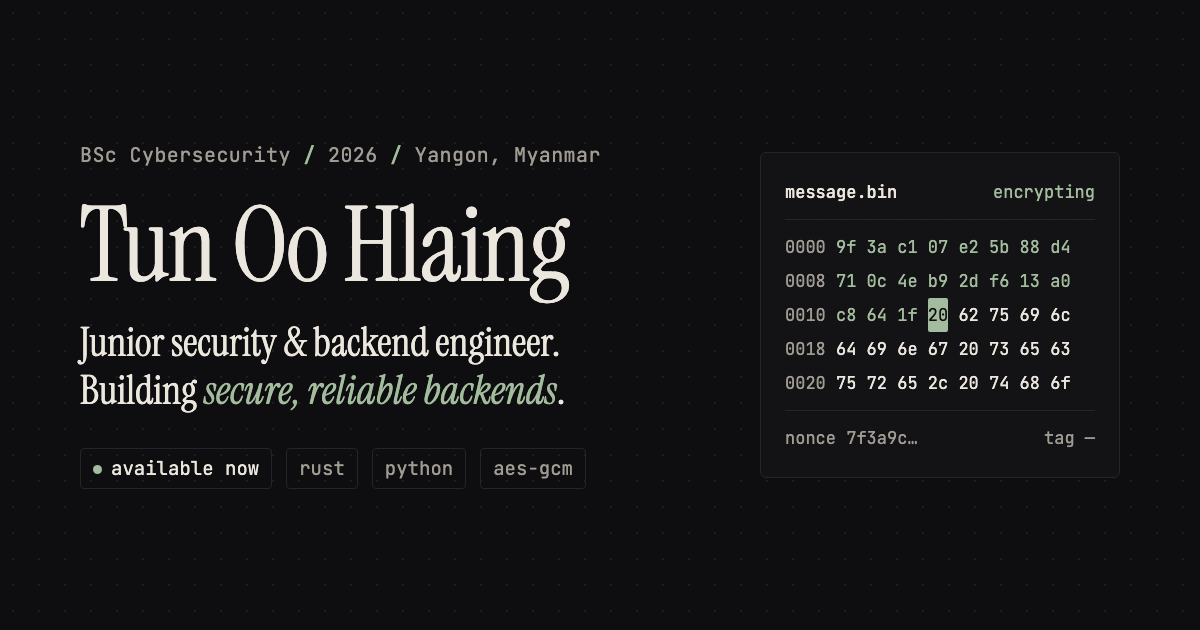
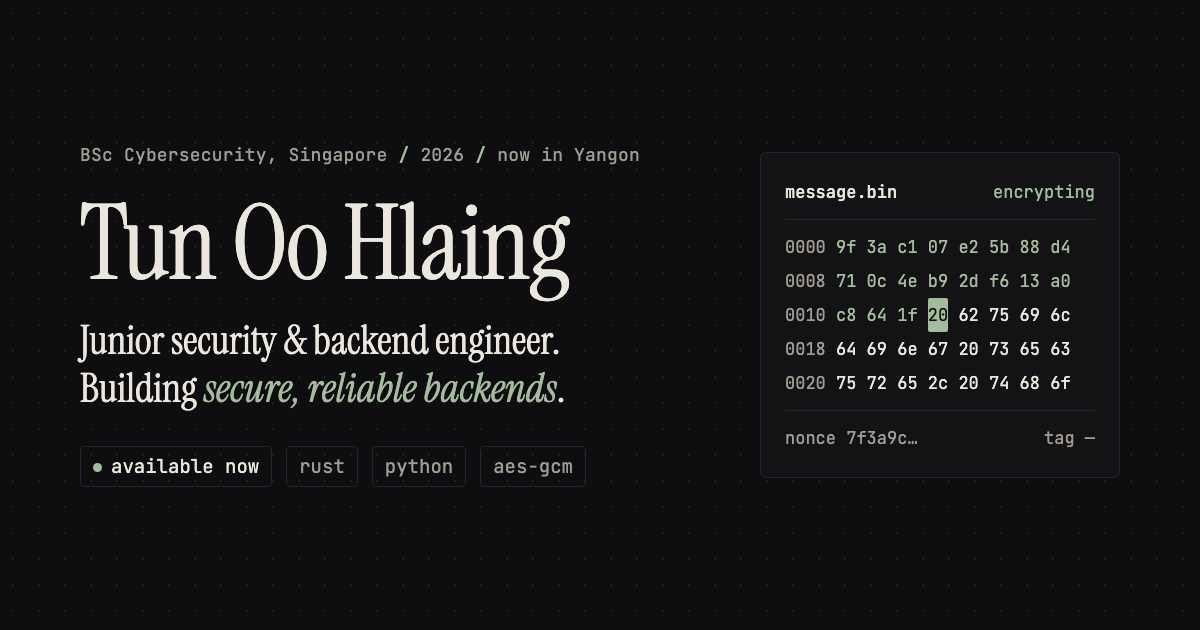
Shorten top line

diff --git a/index.html b/index.html
@@ -142,8 +142,9 @@ a:hover .arrow.ne { transform: translate(2px, -2px); }
 .hero { display: grid; gap: 48px; padding-block: clamp(40px, 9vw, 110px) clamp(64px, 10vw, 120px); align-items: center; }
 @media (min-width: 900px) { .hero { grid-template-columns: minmax(0, 1.25fr) minmax(0, 0.9fr); gap: 64px; } }
 .eyebrow { font-family: var(--f-mono); font-size: var(--t-xs); color: var(--muted); letter-spacing: 0.04em; display: flex; flex-wrap: wrap; gap: 6px 14px; }
-.eyebrow span + span::before { content: "/"; color: var(--faint); margin-right: 14px; }
-@media (max-width: 480px) { .eyebrow { gap: 4px 16px; } .eyebrow span + span::before { content: none; } }
+/* separator trails each item, so a wrapped line always starts with words, never a "/" */
+.eyebrow span:not(:last-child)::after { content: "/"; color: var(--faint); margin-left: 14px; }
+@media (max-width: 480px) { .eyebrow { gap: 4px 16px; } .eyebrow span:not(:last-child)::after { content: none; } }
 .hero h1 { font-size: var(--t-hero); letter-spacing: -0.015em; margin-top: 22px; }
 .position { font-family: var(--f-display); font-size: var(--t-lg); line-height: 1.25; margin-top: 18px; max-width: 24ch; color: var(--fg); }
 .position em { color: var(--accent); }
@@ -621,7 +622,7 @@ footer .wrap { display: flex; flex-wrap: wrap; justify-content: space-between; g
   <!-- Hero -->
   <section class="wrap hero" aria-labelledby="hero-name">
     <div>
-      <p class="eyebrow intro" style="--d: 0ms"><span>BSc Cybersecurity</span><span>Class of 2026</span><span>Yangon, Myanmar</span></p>
+      <p class="eyebrow intro" style="--d: 0ms"><span>BSc Cybersecurity, Singapore</span><span>Class of 2026</span></p>
       <h1 id="hero-name"><span class="w"><span style="--i: 0">Tun</span></span> <span class="w"><span style="--i: 1">Oo</span></span> <span class="w"><span style="--i: 2">Hlaing</span></span></h1>
       <p class="position intro" style="--d: 560ms">Cybersecurity graduate building <em>secure, reliable backends</em>.</p>
       <p class="seeking intro" style="--d: 680ms">Encrypted storage in Rust, APIs in Python, real-time systems. Open to junior security, software and backend roles in Myanmar or Singapore.</p>
@@ -645,8 +646,8 @@ footer .wrap { display: flex; flex-wrap: wrap; justify-content: space-between; g
   <section class="wrap glance" aria-label="At a glance">
     <dl>
       <div><dt>roles</dt><dd>Junior security, software or backend</dd></div>
-      <div><dt>degree</dt><dd>BSc Cybersecurity, UOW, 2026</dd></div>
-      <div><dt>based in</dt><dd>Yangon, Myanmar</dd></div>
+      <div><dt>degree</dt><dd>BSc Cybersecurity, UOW Singapore, 2026</dd></div>
+      <div><dt>now based in</dt><dd>Yangon, Myanmar</dd></div>
       <div><dt>open to</dt><dd>Myanmar or Singapore</dd></div>
       <div><dt>available</dt><dd>Now, immediate start</dd></div>
       <div><dt>languages</dt><dd>English, Burmese</dd></div>
@@ -658,14 +659,14 @@ footer .wrap { display: flex; flex-wrap: wrap; justify-content: space-between; g
     <div class="wrap sec-grid">
       <div class="margin">
         <p class="label"><span class="sym sym-fingerprint" aria-hidden="true"><svg viewBox="0 0 24 24"><path pathLength="1" d="M4.6 15.5c.3-1.1.4-2.3.4-3.5a7 7 0 0 1 14 0c0 1.9-.2 3.7-.6 5.4"/><path pathLength="1" d="M7.3 18.6c.8-1.9 1.2-4.2 1.2-6.6a3.5 3.5 0 0 1 7 0c0 1.4-.1 2.8-.4 4.1"/><path pathLength="1" d="M12 12c0 3.1-.6 5.9-1.8 8.2"/><path pathLength="1" d="M14.4 18.8c-.3.9-.7 1.7-1.1 2.4"/><line class="scan" x1="3" y1="5" x2="21" y2="5"/></svg></span>about</p>
-        <p class="note-m"><b>BSc Computer Science</b>Cybersecurity major<br>University of Wollongong<br>Graduated 2026</p>
-        <p class="note-m"><b>Diploma in IT</b>SIM Global Education<br>Oct 2023 – Sep 2024</p>
+        <p class="note-m"><b>BSc Computer Science</b>Cybersecurity major<br>University of Wollongong<br>Singapore · graduated 2026</p>
+        <p class="note-m"><b>Diploma in IT</b>SIM Global Education<br>Singapore · Oct 2023 – Sep 2024</p>
         <p class="note-m"><b>Impetus Award</b>Recognition</p>
       </div>
       <div class="body reveal">
         <h2 id="about-h">Building software <em>people can trust</em>.</h2>
         <div class="about">
-          <p>I'm Tun. I studied Computer Science with a major in Cybersecurity at the University of Wollongong, after a Diploma in Information Technology at SIM Global Education.</p>
+          <p>I'm Tun. I studied Computer Science with a major in Cybersecurity at the University of Wollongong in Singapore, after a Diploma in Information Technology at SIM Global Education, also in Singapore.</p>
           <p>Security interests me because it asks you to be precise. A system is only as safe as its weakest assumption, so you learn to question every one. Cryptography is where that precision matters most: in SecureVault, a single changed byte is enough for authenticated encryption to refuse the file.</p>
           <p class="quiet">I like building things end to end, from encryption logic in Rust to a full-stack app shipped in two days. I'm now back home in Yangon and looking for my first role, where I can keep learning from people who care about doing things properly.</p>
         </div>

diff --git a/src/portfolio.html b/src/portfolio.html
@@ -135,8 +135,9 @@ a:hover .arrow.ne { transform: translate(2px, -2px); }
 .hero { display: grid; gap: 48px; padding-block: clamp(40px, 9vw, 110px) clamp(64px, 10vw, 120px); align-items: center; }
 @media (min-width: 900px) { .hero { grid-template-columns: minmax(0, 1.25fr) minmax(0, 0.9fr); gap: 64px; } }
 .eyebrow { font-family: var(--f-mono); font-size: var(--t-xs); color: var(--muted); letter-spacing: 0.04em; display: flex; flex-wrap: wrap; gap: 6px 14px; }
-.eyebrow span + span::before { content: "/"; color: var(--faint); margin-right: 14px; }
-@media (max-width: 480px) { .eyebrow { gap: 4px 16px; } .eyebrow span + span::before { content: none; } }
+/* separator trails each item, so a wrapped line always starts with words, never a "/" */
+.eyebrow span:not(:last-child)::after { content: "/"; color: var(--faint); margin-left: 14px; }
+@media (max-width: 480px) { .eyebrow { gap: 4px 16px; } .eyebrow span:not(:last-child)::after { content: none; } }
 .hero h1 { font-size: var(--t-hero); letter-spacing: -0.015em; margin-top: 22px; }
 .position { font-family: var(--f-display); font-size: var(--t-lg); line-height: 1.25; margin-top: 18px; max-width: 24ch; color: var(--fg); }
 .position em { color: var(--accent); }
@@ -614,7 +615,7 @@ footer .wrap { display: flex; flex-wrap: wrap; justify-content: space-between; g
   <!-- Hero -->
   <section class="wrap hero" aria-labelledby="hero-name">
     <div>
-      <p class="eyebrow intro" style="--d: 0ms"><span>BSc Cybersecurity</span><span>Class of 2026</span><span>Yangon, Myanmar</span></p>
+      <p class="eyebrow intro" style="--d: 0ms"><span>BSc Cybersecurity, Singapore</span><span>Class of 2026</span></p>
       <h1 id="hero-name"><span class="w"><span style="--i: 0">Tun</span></span> <span class="w"><span style="--i: 1">Oo</span></span> <span class="w"><span style="--i: 2">Hlaing</span></span></h1>
       <p class="position intro" style="--d: 560ms">Cybersecurity graduate building <em>secure, reliable backends</em>.</p>
       <p class="seeking intro" style="--d: 680ms">Encrypted storage in Rust, APIs in Python, real-time systems. Open to junior security, software and backend roles in Myanmar or Singapore.</p>
@@ -638,8 +639,8 @@ footer .wrap { display: flex; flex-wrap: wrap; justify-content: space-between; g
   <section class="wrap glance" aria-label="At a glance">
     <dl>
       <div><dt>roles</dt><dd>Junior security, software or backend</dd></div>
-      <div><dt>degree</dt><dd>BSc Cybersecurity, UOW, 2026</dd></div>
-      <div><dt>based in</dt><dd>Yangon, Myanmar</dd></div>
+      <div><dt>degree</dt><dd>BSc Cybersecurity, UOW Singapore, 2026</dd></div>
+      <div><dt>now based in</dt><dd>Yangon, Myanmar</dd></div>
       <div><dt>open to</dt><dd>Myanmar or Singapore</dd></div>
       <div><dt>available</dt><dd>Now, immediate start</dd></div>
       <div><dt>languages</dt><dd>English, Burmese</dd></div>
@@ -651,14 +652,14 @@ footer .wrap { display: flex; flex-wrap: wrap; justify-content: space-between; g
     <div class="wrap sec-grid">
       <div class="margin">
         <p class="label"><span class="sym sym-fingerprint" aria-hidden="true"><svg viewBox="0 0 24 24"><path pathLength="1" d="M4.6 15.5c.3-1.1.4-2.3.4-3.5a7 7 0 0 1 14 0c0 1.9-.2 3.7-.6 5.4"/><path pathLength="1" d="M7.3 18.6c.8-1.9 1.2-4.2 1.2-6.6a3.5 3.5 0 0 1 7 0c0 1.4-.1 2.8-.4 4.1"/><path pathLength="1" d="M12 12c0 3.1-.6 5.9-1.8 8.2"/><path pathLength="1" d="M14.4 18.8c-.3.9-.7 1.7-1.1 2.4"/><line class="scan" x1="3" y1="5" x2="21" y2="5"/></svg></span>about</p>
-        <p class="note-m"><b>BSc Computer Science</b>Cybersecurity major<br>University of Wollongong<br>Graduated 2026</p>
-        <p class="note-m"><b>Diploma in IT</b>SIM Global Education<br>Oct 2023 – Sep 2024</p>
+        <p class="note-m"><b>BSc Computer Science</b>Cybersecurity major<br>University of Wollongong<br>Singapore · graduated 2026</p>
+        <p class="note-m"><b>Diploma in IT</b>SIM Global Education<br>Singapore · Oct 2023 – Sep 2024</p>
         <p class="note-m"><b>Impetus Award</b>Recognition</p>
       </div>
       <div class="body reveal">
         <h2 id="about-h">Building software <em>people can trust</em>.</h2>
         <div class="about">
-          <p>I'm Tun. I studied Computer Science with a major in Cybersecurity at the University of Wollongong, after a Diploma in Information Technology at SIM Global Education.</p>
+          <p>I'm Tun. I studied Computer Science with a major in Cybersecurity at the University of Wollongong in Singapore, after a Diploma in Information Technology at SIM Global Education, also in Singapore.</p>
           <p>Security interests me because it asks you to be precise. A system is only as safe as its weakest assumption, so you learn to question every one. Cryptography is where that precision matters most: in SecureVault, a single changed byte is enough for authenticated encryption to refuse the file.</p>
           <p class="quiet">I like building things end to end, from encryption logic in Rust to a full-stack app shipped in two days. I'm now back home in Yangon and looking for my first role, where I can keep learning from people who care about doing things properly.</p>
         </div>

diff --git a/src/og-card.html b/src/og-card.html
@@ -15,7 +15,7 @@
     background-image: radial-gradient(rgba(236,231,222,0.07) 1.2px, transparent 1.4px); background-size: 26px 26px;
     padding: 72px 80px; display: grid; grid-template-columns: 1fr 360px; gap: 56px; align-items: center;
   }
-  .eyebrow { font-family: "JetBrains Mono", monospace; font-size: 20px; color: var(--muted); letter-spacing: .02em; }
+  .eyebrow { font-family: "JetBrains Mono", monospace; font-size: 18px; color: var(--muted); letter-spacing: .01em; white-space: nowrap; }
   .eyebrow b { color: var(--accent); font-weight: 500; }
   h1 { font-family: "Instrument Serif", Georgia, serif; font-weight: 400; font-size: 104px; line-height: 1; letter-spacing: -0.015em; margin-top: 26px; }
   .role { font-family: "Instrument Serif", Georgia, serif; font-size: 40px; line-height: 1.2; margin-top: 20px; }
@@ -36,7 +36,7 @@
 </head>
 <body>
   <div>
-    <p class="eyebrow">BSc Cybersecurity <b>/</b> 2026 <b>/</b> Yangon, Myanmar</p>
+    <p class="eyebrow">BSc Cybersecurity, Singapore <b>/</b> 2026 <b>/</b> now in Yangon</p>
     <h1>Tun Oo Hlaing</h1>
     <p class="role">Junior security &amp; backend engineer.<br>Building <em>secure, reliable backends</em>.</p>
     <p class="meta"><span class="on">available now</span><span>rust</span><span>python</span><span>aes-gcm</span></p>
